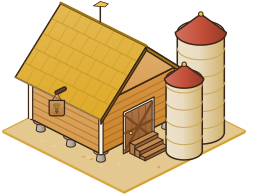
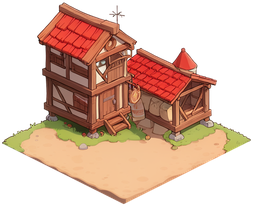
Ludo.ai art: granary and storehouse, levels 1-3 with winter versions
Level 1 of each from generateWithStyle in the farmhouse's style, with the
building on the back half of the pad and an open yard at the front; levels
2 and 3 are editImage on the level below, so each level is the same
building grown (a second bay, then a second storey and a silo or a stone
and iron bay). Winter versions are editImage on each summer image. All
fitted with fit_building.py and installed with install_prop.py.

The stock piles move onto the new yards (SLOTS), clear of every level's
walls and posts. Adds tools/ludo/corners.py for measuring pad corners.

diff --git a/src/features/storage/piles.ts b/src/features/storage/piles.ts
@@ -16,13 +16,13 @@ import { addArt, addShadow } from '../../scenes/sprites';
  */
 
 /**
- * Where each pile stands, in tiles from the building's top-left corner: in the yard in front of it, inside its
- * own 2×2 footprint, clear of the walls, steps, silos and lean-to of every level. Pile art is drawn around the
- * middle of a tile (see tools/art/piles.py). Listed back to front.
+ * Where each pile stands, in tiles from the building's top-left corner: on the open yard at the front of its own
+ * 2×2 pad, clear of the walls, posts and bays of every level. Pile art is drawn around the middle of a tile (see
+ * tools/art/piles.py). Listed back to front.
  */
 const SLOTS: Record<string, Record<string, { x: number; y: number }>> = {
-  granary: { crops: { x: 0.42, y: 1.84 }, animal: { x: 0.98, y: 1.84 }, feed: { x: 1.5, y: 1.72 }, goods: { x: 1.8, y: 1.42 } },
-  storehouse: { wood: { x: 0.42, y: 1.7 }, stone: { x: 1.05, y: 1.74 }, iron: { x: 1.72, y: 1.62 } },
+  granary: { crops: { x: 0.45, y: 1.6 }, animal: { x: 1.0, y: 1.72 }, goods: { x: 1.75, y: 1.1 }, feed: { x: 1.6, y: 1.62 } },
+  storehouse: { wood: { x: 0.52, y: 1.45 }, stone: { x: 1.0, y: 1.65 }, iron: { x: 1.6, y: 1.55 } },
   farmhouse: { house_goods: { x: 1.84, y: 0.64 }, house_materials: { x: 1.85, y: 1.02 } },
 };
 

diff --git a/tools/ludo/corners.py b/tools/ludo/corners.py
@@ -1,0 +1,13 @@
+import sys, numpy as np
+from PIL import Image, ImageDraw
+f = sys.argv[1]
+im = Image.open(f).convert('RGBA'); a = np.asarray(im)[..., 3] > 128
+cols = np.nonzero(a.any(0))[0]; lx, rx = cols[0], cols[-1]
+ly = np.nonzero(a[:, lx])[0].min(); ry = np.nonzero(a[:, rx])[0].min()
+# top surface bottom corner from 2:1 edges
+bx = (lx + rx) / 2 + (ry - ly); by = ly + (bx - lx) / 2
+print(f, im.size, 'L', lx, ly, 'R', rx, ry, 'B', round(bx, 1), round(by, 1))
+ov = im.copy(); d = ImageDraw.Draw(ov)
+d.line([(lx, ly), (bx, by), (rx, ry)], fill=(255, 0, 0, 255), width=2)
+for x, y in ((lx, ly), (rx, ry), (bx, by)): d.ellipse((x-5, y-5, x+5, y+5), outline=(0, 0, 255, 255), width=2)
+bg = Image.new('RGBA', im.size, (90, 140, 70, 255)); bg.alpha_composite(ov); bg.save(f.rsplit('.', 1)[0] + '_corners.png')

diff --git a/tools/ludo/README.md b/tools/ludo/README.md
@@ -14,6 +14,8 @@ git (or rerun the commands below) after running it.
 | `farmhouse`, `farmhouse_winter` | `farmhouse_raw.png`, `farmhouse_winter_raw.png` | all |
 | `cottage`, `cottage_winter` | `cottage_raw.png`, `cottage_winter_raw.png` | all |
 | `chicken_coop`, `chicken_coop_winter` | `chicken_coop_raw.png`, `chicken_coop_winter_raw.png` | all |
+| `granary_1..3`, each with `_winter` | `granary_{1,2,3}_raw.png`, `granary_{1,2,3}_winter_raw.png` | all |
+| `storehouse_1..3`, each with `_winter` | `storehouse_{1,2,3}_raw.png`, `storehouse_{1,2,3}_winter_raw.png` | all |
 | `farmer` (spritesheet) | see **Farmer** below | all |
 | `grass_0..2`, `path_*` (16), `soil_tilled_x/y`, `soil_watered_x/y`, `unowned_0/1` | `grass_a_raw.png`, `grass_b_raw.png`, `dirt_raw.png`, `soil_raw.png`, `snow_raw.png`, `snow_path_raw.png` | all |
 | `tree_oak` (base, `_spring`, `_summer`, `_autumn`, `_winter`) | `tree_oak_raw.png`, `tree_oak_{spring,autumn,winter}_raw.png` | all |
@@ -60,6 +62,30 @@ $P $L/fit_building.py $L/source/cottage_winter_raw.png /tmp/props cottage_winter
 $P $L/fit_building.py $L/source/chicken_coop_raw.png /tmp/props chicken_coop 3 3 40 349 727 348 382.5 520.2
 $P $L/fit_building.py $L/source/chicken_coop_winter_raw.png /tmp/props chicken_coop_winter 3 3 40 348 726 347 382 519
 for n in cottage cottage_winter chicken_coop chicken_coop_winter; do $P $L/install_prop.py /tmp/props $n; done
+```
+
+The granary and storehouse have a sprite per level. Level 1 came from `generateWithStyle`, with the building on the
+back half of the pad and the front half left as an open yard for the stock piles (`SLOTS` in
+`src/features/storage/piles.ts`). Levels 2 and 3 are `editImage` on the level below ("keep the same ... exactly, but
+make it bigger: add a bay ..."), so each level is the same building grown. `python tools/ludo/corners.py RAW.png`
+prints the pad corners and writes `RAW_corners.png`, an overlay to check them by eye (don't commit it). A winter
+image on the same canvas size as its summer image is fitted with the summer corners, so the two line up exactly.
+
+```bash
+$P $L/fit_building.py $L/source/granary_1_raw.png /tmp/props granary_1 2 2 44 397 771 387 397.5 573.8
+$P $L/fit_building.py $L/source/granary_1_winter_raw.png /tmp/props granary_1_winter 2 2 45 379 756 369 390.5 551.8
+$P $L/fit_building.py $L/source/granary_2_raw.png /tmp/props granary_2 2 2 44 388 755 380 391.5 561.8
+$P $L/fit_building.py $L/source/granary_2_winter_raw.png /tmp/props granary_2_winter 2 2 44 388 755 380 391.5 561.8
+$P $L/fit_building.py $L/source/granary_3_raw.png /tmp/props granary_3 2 2 53 493 752 485 394.5 663.8
+$P $L/fit_building.py $L/source/granary_3_winter_raw.png /tmp/props granary_3_winter 2 2 53 493 752 485 394.5 663.8
+$P $L/fit_building.py $L/source/storehouse_1_raw.png /tmp/props storehouse_1 2 2 49 361 739 359 392 532.5
+$P $L/fit_building.py $L/source/storehouse_1_winter_raw.png /tmp/props storehouse_1_winter 2 2 43 357 725 355 382 526.5
+for n in storehouse_2 storehouse_2_winter storehouse_3 storehouse_3_winter; do
+  $P $L/fit_building.py $L/source/${n}_raw.png /tmp/props $n 2 2 38 425 724 425 381 596.5
+done
+for t in granary storehouse; do for l in 1 2 3; do
+  $P $L/install_prop.py /tmp/props ${t}_$l; $P $L/install_prop.py /tmp/props ${t}_${l}_winter
+done; done
 ```
 
 Install with `install_prop.py` (it reads the `NAME.json` the fit writes), or copy `/tmp/2x_<name>.png` and
